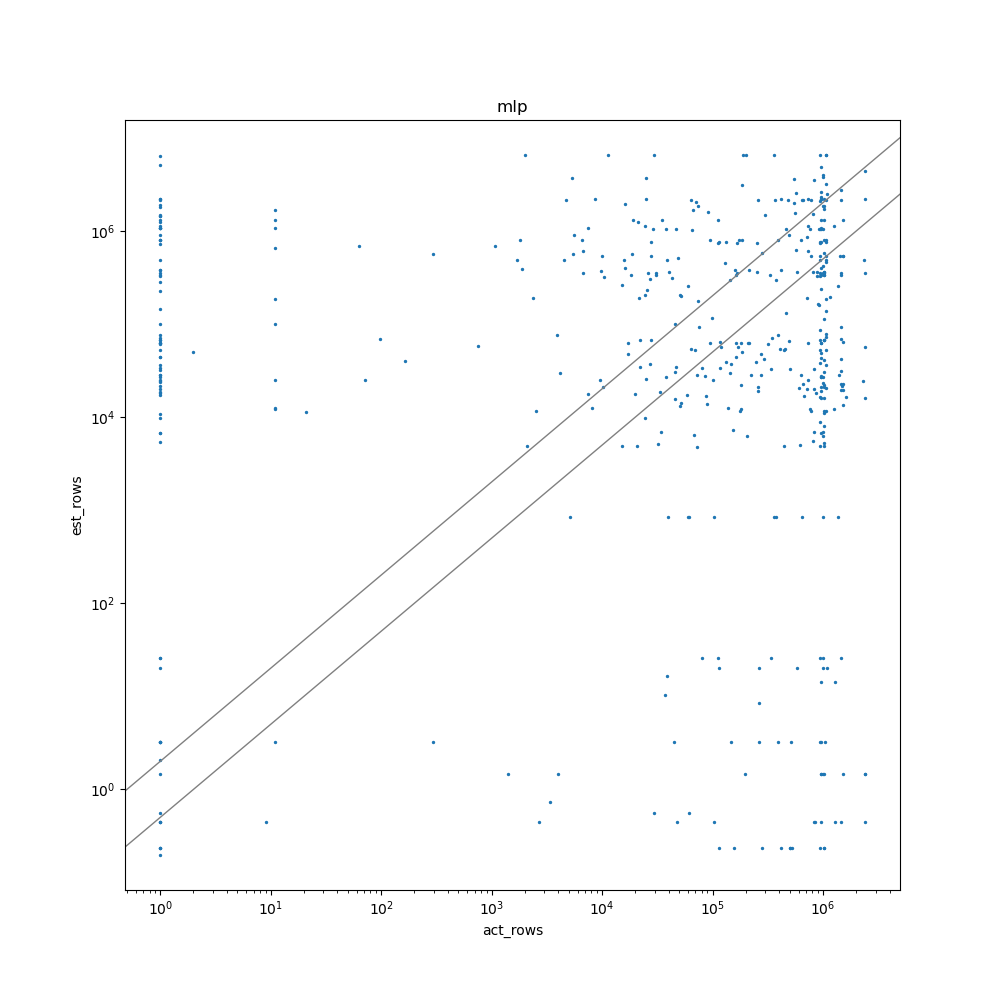
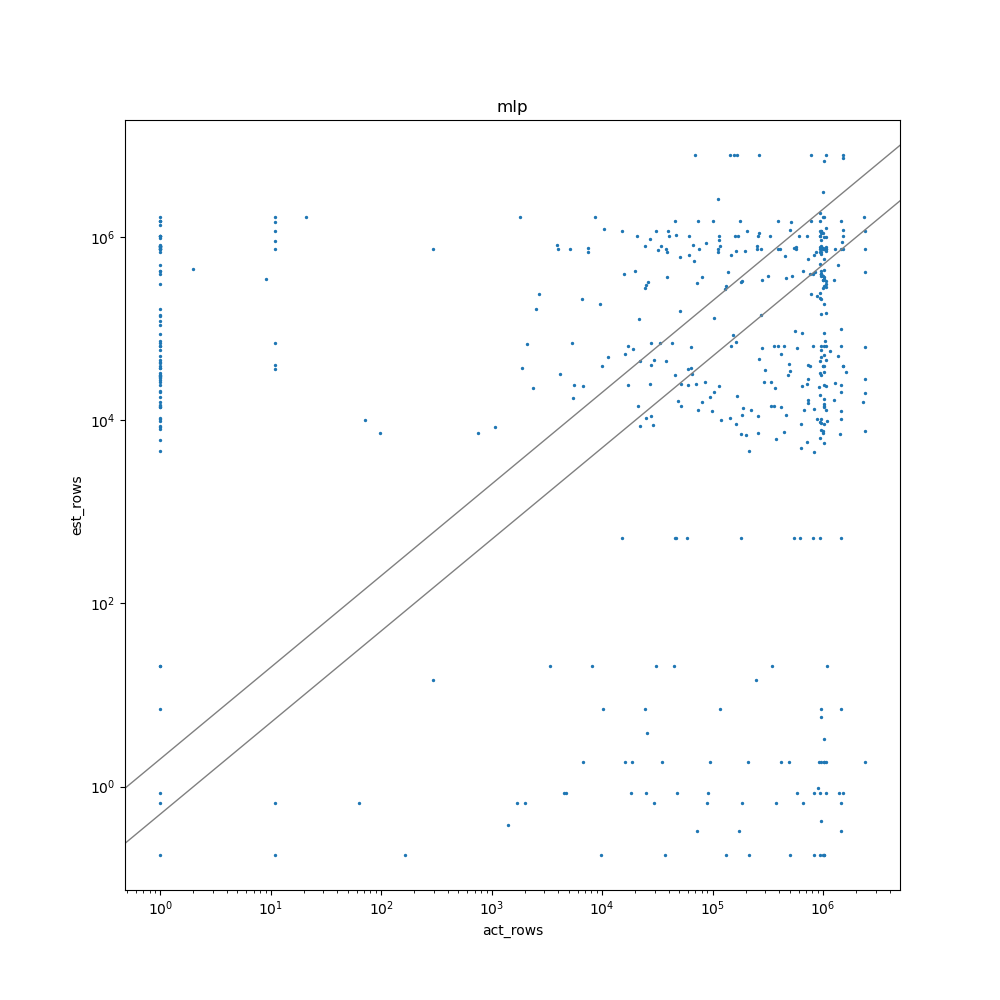
update: evaluation result

diff --git a/lab1/eval/report.md b/lab1/eval/report.md
@@ -3,7 +3,10 @@
 | avi | 3.08 | 11.74 | 33481.27 | 105231.72 |
 | ebo | 2.01 | 13.84 | 97312.81 | 173929.25 |
 | min_sel | 1.67 | 49.76 | 287474.00 | 287474.00 |
-| mlp | 20.80 | 24236.12 | 336351.84 | 4315819.97 |
+| spn_sample_1000 | 2.05 | 2076.00 | 507685.05 | 634606.31 |
+| spn_sample_10000 | 2.01 | 21.52 | 573587.44 | 639406.07 |
+| spn_sample_20000 | 2.11 | 167.73 | 565669.15 | 631538.63 |
+| mlp | 25.59 | 32925.42 | 508047.08 | 4646094.93 |
 | xgb | 1.47 | 1.66 | 2.06 | 149.15 |
 
 ![avi](avi.png)
@@ -11,6 +14,12 @@
 ![ebo](ebo.png)
 
 ![min_sel](min_sel.png)
+
+![spn_sample_1000](spn_sample_1000.png)
+
+![spn_sample_10000](spn_sample_10000.png)
+
+![spn_sample_20000](spn_sample_20000.png)
 
 ![mlp](mlp.png)
 
